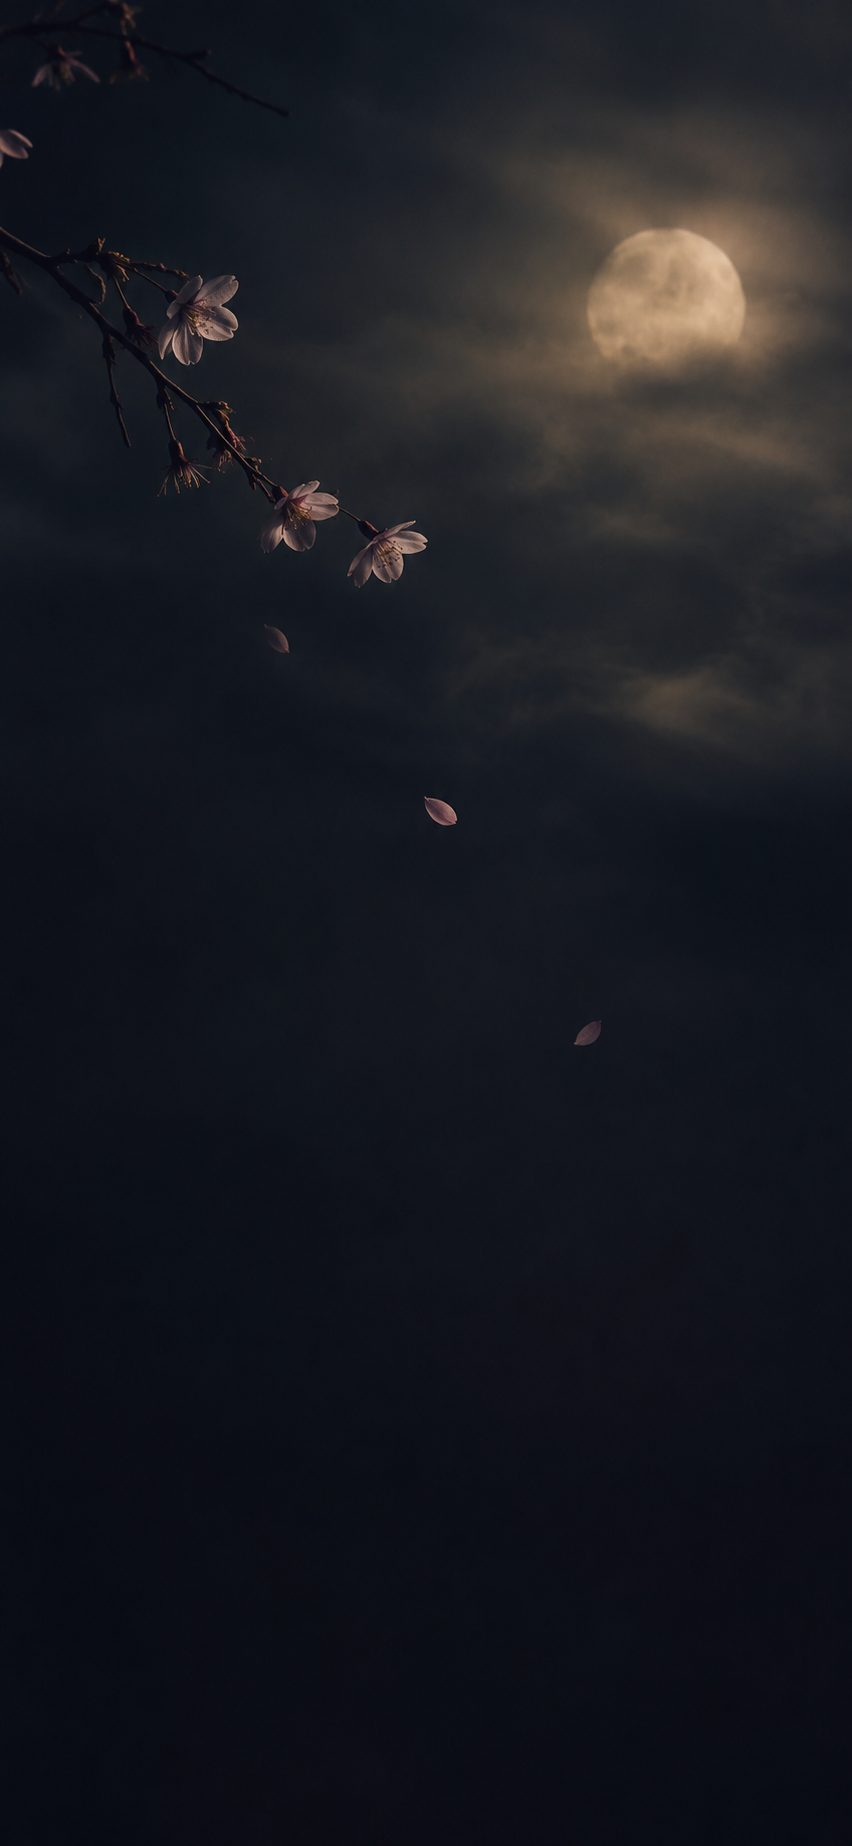
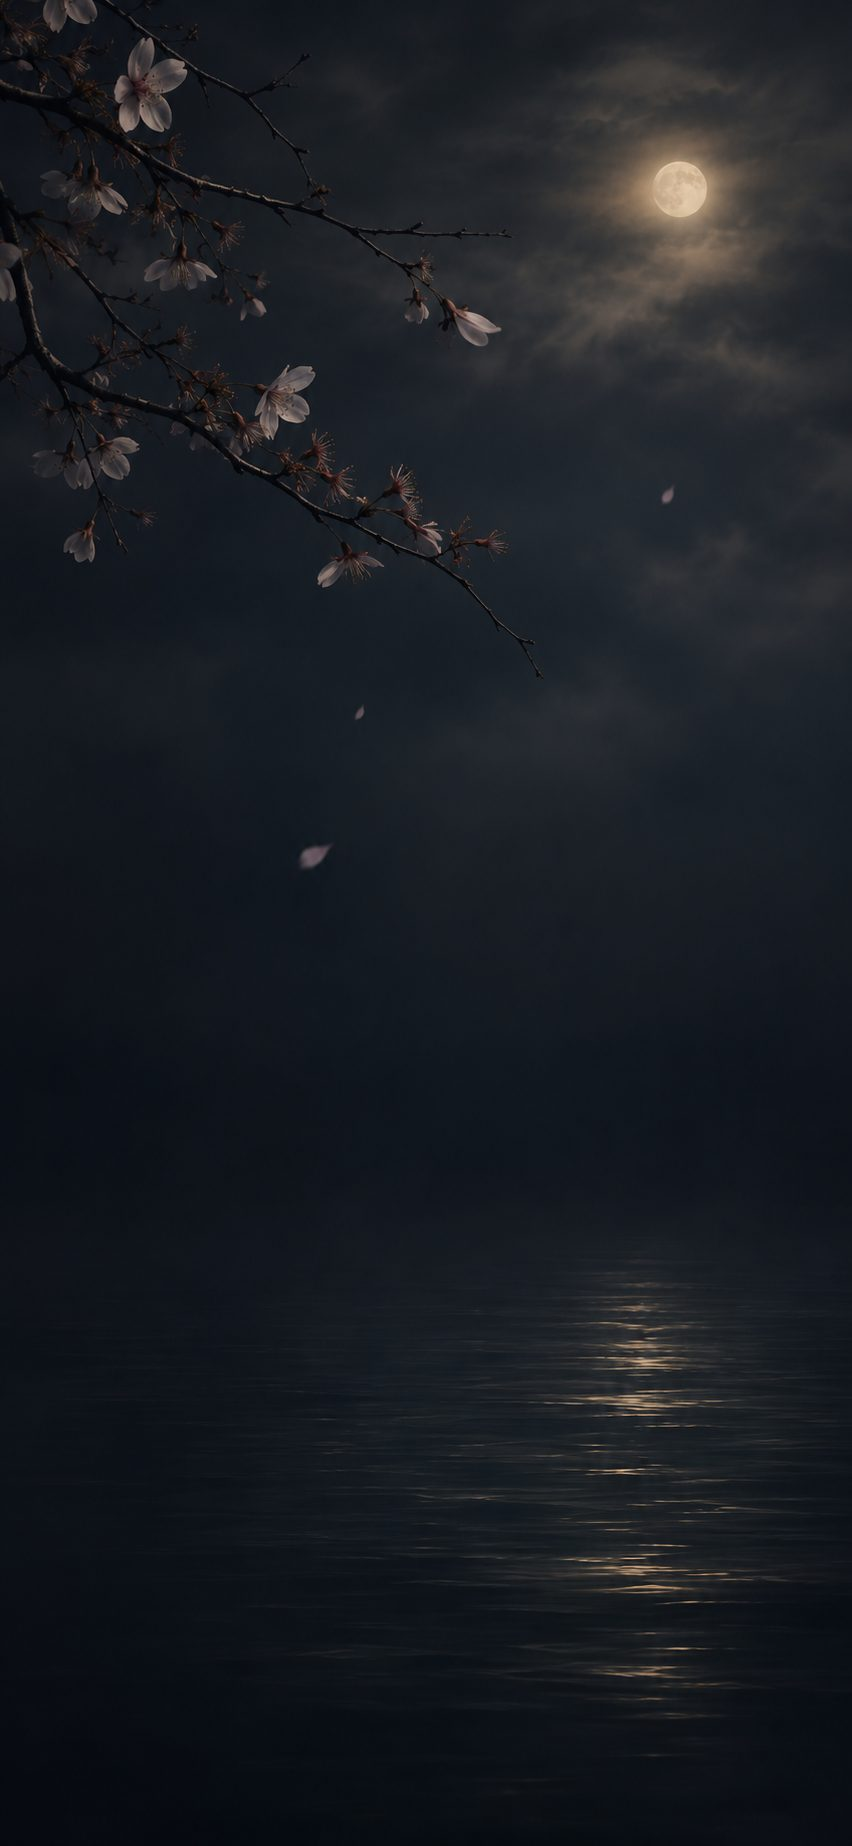
背景を3番に変更

diff --git a/sw.js b/sw.js
@@ -1,4 +1,4 @@
-var V = 'sake-log-v2';
+var V = 'sake-log-v3';
 var FILES = ['./', 'index.html', 'css/app.css?v=1', 'js/config.js?v=1', 'js/aroma.js?v=1', 'js/data.js?v=1', 'js/api.js?v=1', 'js/bg.js?v=1', 'js/app.js?v=1',
   'vendor/fuse.min.js', 'vendor/browser-image-compression.js', 'data/sakenowa.json', 'icons/icon-180.png', 'manifest.json'];
 
